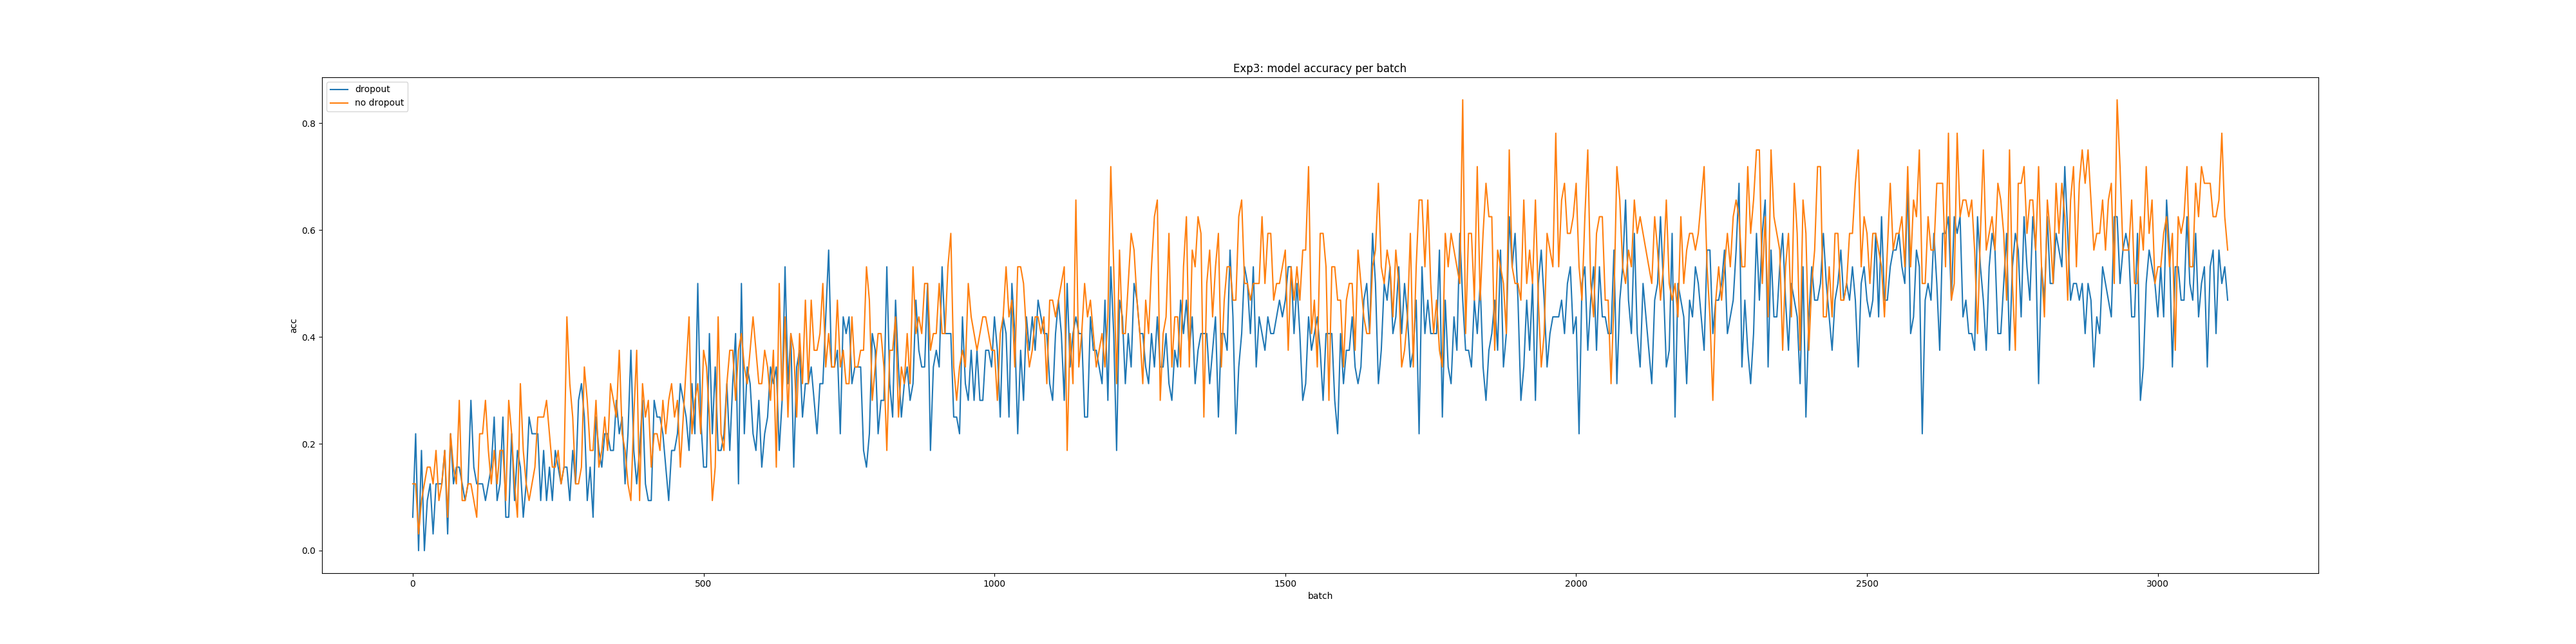
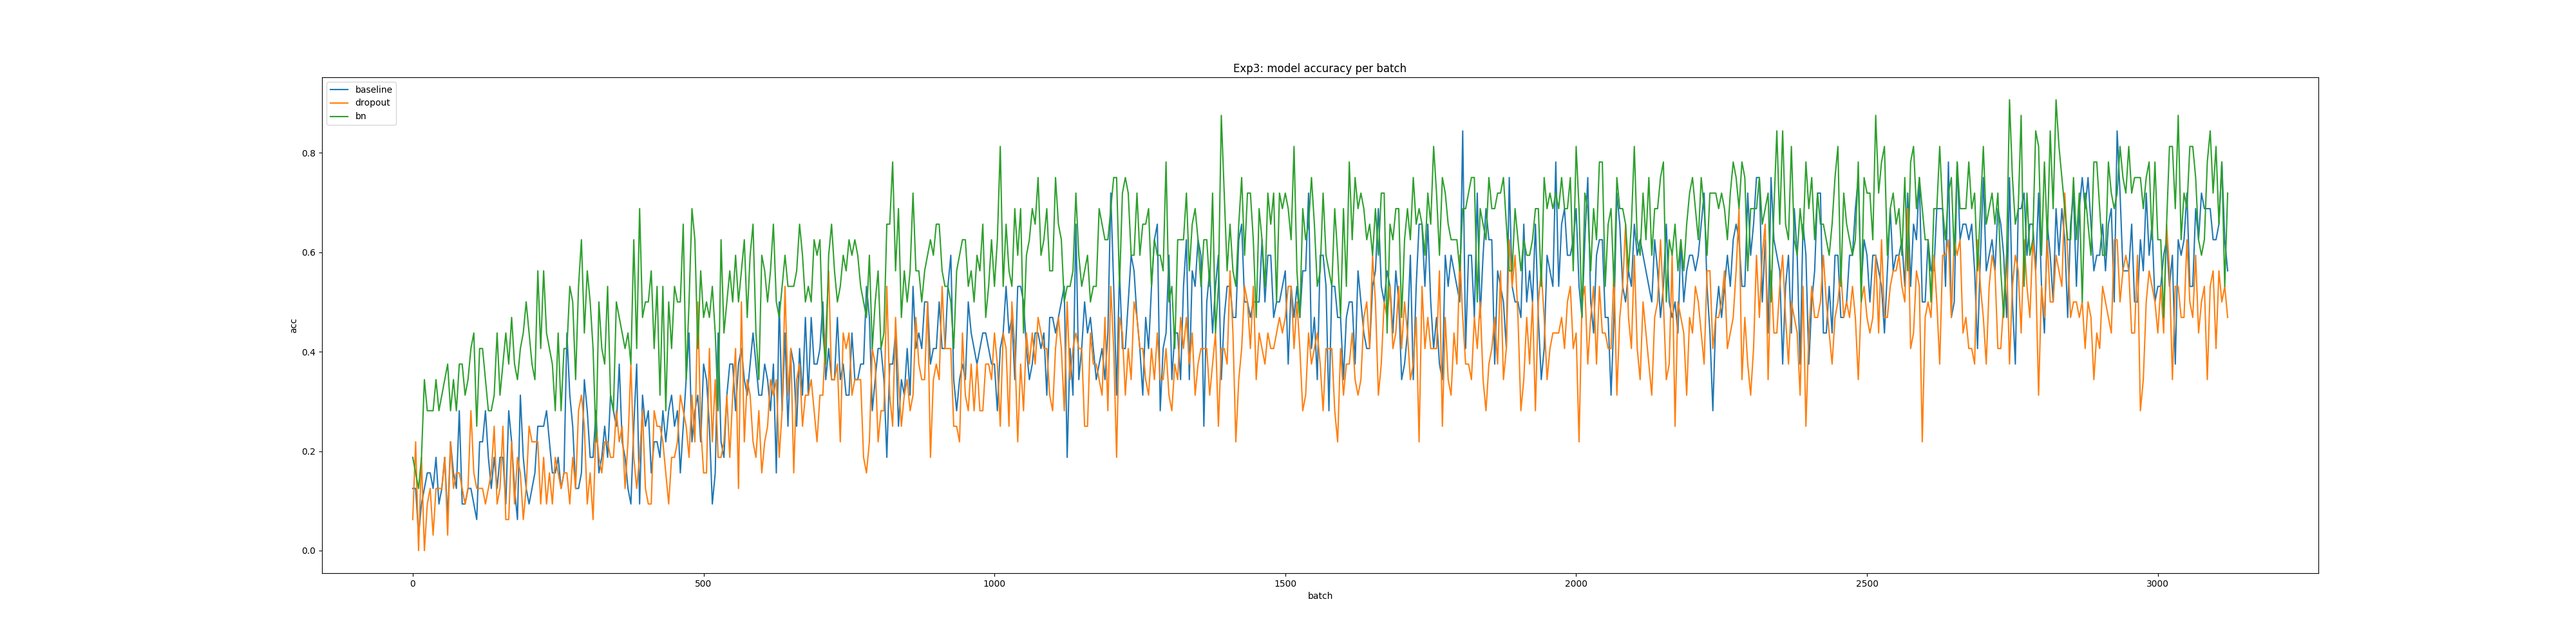
update

Changed region(s): [[0.1562, 0.186, 0.875, 0.837], [0.125, 0.124, 0.1562, 0.186]]

diff --git a/plot_acc_loss.py b/plot_acc_loss.py
@@ -190,9 +190,9 @@ id = "LSUV_no_dropout"
 accs_batch_path_LSUV_no_dropout = id + "/" + "all_cnn_accs_batch_" + id + ".acc"
 losses_batch_path_LSUV_no_dropout = id + "/" + "all_cnn_losses_batch_" + id + ".loss"
 
-# id = "LSUV_norm_shift_flip_zca"
-# accs_batch_path_LSUV_norm_shift_flip_zca = id + "/" + "all_cnn_accs_batch_" + id + ".acc"
-# losses_batch_path_LSUV_norm_shift_flip_zca = id + "/" + "all_cnn_losses_batch_" + id + ".loss"
+id = "LSUV_bn"
+accs_batch_path_LSUV_bn = id + "/" + "all_cnn_accs_batch_" + id + ".acc"
+losses_batch_path_LSUV_bn = id + "/" + "all_cnn_losses_batch_" + id + ".loss"
 
 
 with open(accs_batch_path_LSUV_dropout, "rb") as fp:
@@ -207,35 +207,35 @@ with open(accs_batch_path_LSUV_no_dropout, "rb") as fp:
 with open(losses_batch_path_LSUV_no_dropout, "rb") as fp:
     losses_batch_LSUV_no_dropout = pickle.load(fp)
 
-# with open(accs_batch_path_LSUV_norm_shift_flip_zca, "rb") as fp:
-#     accs_batch_LSUV_norm_shift_flip_zca = pickle.load(fp)
-#
-# with open(losses_batch_path_LSUV_norm_shift_flip_zca, "rb") as fp:
-#     losses_batch_LSUV_norm_shift_flip_zca = pickle.load(fp)
+with open(accs_batch_path_LSUV_bn, "rb") as fp:
+    accs_batch_LSUV_bn = pickle.load(fp)
+
+with open(losses_batch_path_LSUV_bn, "rb") as fp:
+    losses_batch_LSUV_bn = pickle.load(fp)
 
 # acc
 fig = plt.figure(1, figsize=(40, 10))
-plt.plot(range(0, len(accs_batch_LSUV_dropout))[0:-1:5], accs_batch_LSUV_dropout[0:-1:5])
 plt.plot(range(0, len(accs_batch_LSUV_no_dropout))[0:-1:5], accs_batch_LSUV_no_dropout[0:-1:5])
-# plt.plot(range(0, len(accs_batch_LSUV_norm_shift_flip_zca))[0:-1:5], accs_batch_LSUV_norm_shift_flip_zca[0:-1:5])
+plt.plot(range(0, len(accs_batch_LSUV_dropout))[0:-1:5], accs_batch_LSUV_dropout[0:-1:5])
+plt.plot(range(0, len(accs_batch_LSUV_bn))[0:-1:5], accs_batch_LSUV_bn[0:-1:5])
 # plt.xticks(range(0, len(accs_batch_LSUV_nopp))[0:-1:5], range(0, len(accs_batch_LSUV_nopp))[0:-1:500])
 plt.title('Exp3: model accuracy per batch')
 plt.ylabel('acc')
 plt.xlabel('batch')
-plt.legend(['dropout', 'no dropout'], loc='upper left')
+plt.legend(['baseline', 'dropout', 'bn'], loc='upper left')
 # plt.show()
 plt.savefig("exp3_acc.png")
 
 
 # loss
 fig = plt.figure(2, figsize=(40, 10))
-plt.plot(range(0, len(losses_batch_LSUV_dropout))[0:-1:5], losses_batch_LSUV_dropout[0:-1:5])
 plt.plot(range(0, len(losses_batch_LSUV_no_dropout))[0:-1:5], losses_batch_LSUV_no_dropout[0:-1:5])
-# plt.plot(range(0, len(losses_batch_LSUV_norm_shift_flip_zca))[0:-1:5], losses_batch_LSUV_norm_shift_flip_zca[0:-1:5])
+plt.plot(range(0, len(losses_batch_LSUV_dropout))[0:-1:5], losses_batch_LSUV_dropout[0:-1:5])
+plt.plot(range(0, len(losses_batch_LSUV_bn))[0:-1:5], losses_batch_LSUV_bn[0:-1:5])
 # plt.xticks(range(0, len(losses_batch_LSUV_nopp))[0:-1:5], range(0, len(losses_batch_LSUV_nopp))[0:-1:5])
 plt.title('Exp3: model loss per batch')
 plt.ylabel('loss')
 plt.xlabel('batch')
-plt.legend(['dropout', 'no dropout'], loc='upper left')
+plt.legend(['baseline', 'dropout', 'bn'], loc='upper left')
 # plt.show()
 plt.savefig("exp3_loss.png")

diff --git a/all_CNN_keras_oo.py b/all_CNN_keras_oo.py
@@ -7,7 +7,7 @@ from keras.preprocessing.image import ImageDataGenerator
 from keras.models import Sequential
 from keras.layers import Dropout, Activation, Convolution2D, GlobalAveragePooling2D, merge, BatchNormalization
 from keras.utils import np_utils
-from keras.optimizers import SGD
+from keras.optimizers import SGD, RMSprop
 from keras import backend as K
 from keras.models import Model
 from keras.layers.core import Lambda
@@ -175,9 +175,9 @@ batch_size = 32
 epoches = 2
 retrain = True
 is_training = True
-is_bn = True
+is_bn = False
 is_dropout = False
-id = "LSUV_bn"
+id = "LSUV_rmsp"
 old_weights_path = "all_cnn_weights_0.90_0.51.hdf5"
 new_best_weights_path = id + "/" + "all_cnn_best_weights_" + id + ".hdf5"
 whole_model_path = id + "/" + "all_cnn_whole_model_" + id + ".h5"
@@ -247,7 +247,8 @@ model = AllCNN(is_dropout)
 
 # set training mode
 sgd = SGD(lr=0.01, decay=1e-6, momentum=0.9, nesterov=True)
-model.compile(loss='categorical_crossentropy', optimizer=sgd, metrics=['accuracy'])
+rmsp = RMSprop(lr=0.01, rho=0.9, epsilon=1e-08, decay=0.01)
+model.compile(loss='categorical_crossentropy', optimizer=rmsp, metrics=['accuracy'])
 print(model.summary())
 
 if is_training:

diff --git a/task1.md b/task1.md
@@ -127,7 +127,7 @@ Due to the lack of GPU resources and long training process, I have no choice but
 
 | Parameter    | Setting                                                                                       |
 |--------------|-----------------------------------------------------------------------------------------------|
-| Training     | SGD: lr=0.01, decay=1e-6, momentum=0.9, nesterov                                              |
+| Training     | batchsize = 32, SGD: lr=0.01, decay=1e-6, momentum=0.9, nesterov                                              |
 | Optimizer   | dropout with 0.5 after each "pooling" layer"     |
 | Data Augmentation | horizontal and vertical shift within the range of 10%, horizontal flipping, zca whitening |
 
@@ -140,29 +140,31 @@ In the first experiment, I compared the effectiveness of different initializatio
 
 | Parameter   | Setting                                          |
 |-------------|--------------------------------------------------|
-| Training    | SGD: lr=0.01, decay=1e-6, momentum=0.9, nesterov |
+| Training    | batchsize = 32, SGD: lr=0.01, decay=1e-6, momentum=0.9, nesterov |
 | Optimizer   | dropout with 0.5 after each "pooling" layer"     |
 | Initializer | LSUV                                             |
 
 In the second experiment, I compared the effectiveness of different image preprocessing. Specifically, shift, flipping, normalization and zca whitening are compared. As figures shown below, augmentation by shifting, flipping, normalization and zca whitening (green) helps the model coverge more quickly in first 3000 batches. 
 
-![Experiment2: model accuracy on training set](https://github.com/PAN001/Strided-CNN/blob/master/exp2_acc.png?raw=true "Experiment1: model accuracy on training set")
-![Experiment2: model loss on training set](https://github.com/PAN001/Strided-CNN/blob/master/exp2_loss.png?raw=true "Experiment1: model loss on training set")
+![Experiment2: model accuracy on training set](https://github.com/PAN001/Strided-CNN/blob/master/exp2_acc.png?raw=true "Experiment2: model accuracy on training set")
+![Experiment2: model loss on training set](https://github.com/PAN001/Strided-CNN/blob/master/exp2_loss.png?raw=true "Experiment2: model loss on training set")
 
 
 ## Experiment3: Optimizer
 
 | Parameter         | Setting                                               |
 |-------------------|-------------------------------------------------------|
-| Training          | SGD: lr=0.01, decay=1e-6, momentum=0.9, nesterov      |
+| Training          | batchsize = 32, SGD: lr=0.01, decay=1e-6, momentum=0.9, nesterov      |
 | Data Augmentation | horizontal and vertical shift within the range of 10% |
 | Initializer       | LSUV                                                  |
 
-In the second experiment, I compared the effectiveness of different optimizations. Specifically, dropout are compared. As figures shown below, augmentation by shifting, flipping, normalization and zca whitening helps the model coverge more quickly in first 3000 batches. 
+In the second experiment, I compared the effectiveness of different optimizations. Specifically, dropout and batch normalization are compared. As figures shown below, the model with batch normalization (green) performs better in first 3000 batches. However, since the 3000 batches is a very small number, the power of dropout in overcoming overfitting can not be revealed in this early training stage.
 
+![Experiment3: model accuracy on training set](https://github.com/PAN001/Strided-CNN/blob/master/exp3_acc.png?raw=true "Experiment3: model accuracy on training set")
+![Experiment3: model loss on training set](https://github.com/PAN001/Strided-CNN/blob/master/exp3_loss.png?raw=true "Experiment3: model loss on training set")
 
-- experiment#1: LSUV, SGD(lr=0.01, decay=1e-6, momentum=0.9, nesterov=True), horizontally and vertically shift within the range of 10%, horizontal flipping
-- experiment#2: zca_whitening
+<!-- - experiment#1: LSUV, SGD(lr=0.01, decay=1e-6, momentum=0.9, nesterov=True), horizontally and vertically shift within the range of 10%, horizontal flipping
+- experiment#2: zca_whitening -->
 
 # Conclusion
 The final model reveals `90.88%` accuracy on test set at epoch 339 with loss of `0.4994`. It is a typical `All-CNN` architecture summaried as follows:
@@ -217,7 +219,7 @@ The parameter setting is as follows:
 
 | Parameter   | Setting                                          |
 |-------------|--------------------------------------------------|
-| Training    | SGD: lr=0.01, decay=1e-6, momentum=0.9, nesterov |
+| Training    | batchsize = 32, SGD: lr=0.01, decay=1e-6, momentum=0.9, nesterov |
 | Optimizer   | dropout with 0.5 after each "pooling" layer"     |
 | Initializer | LSUV                                             |
 
